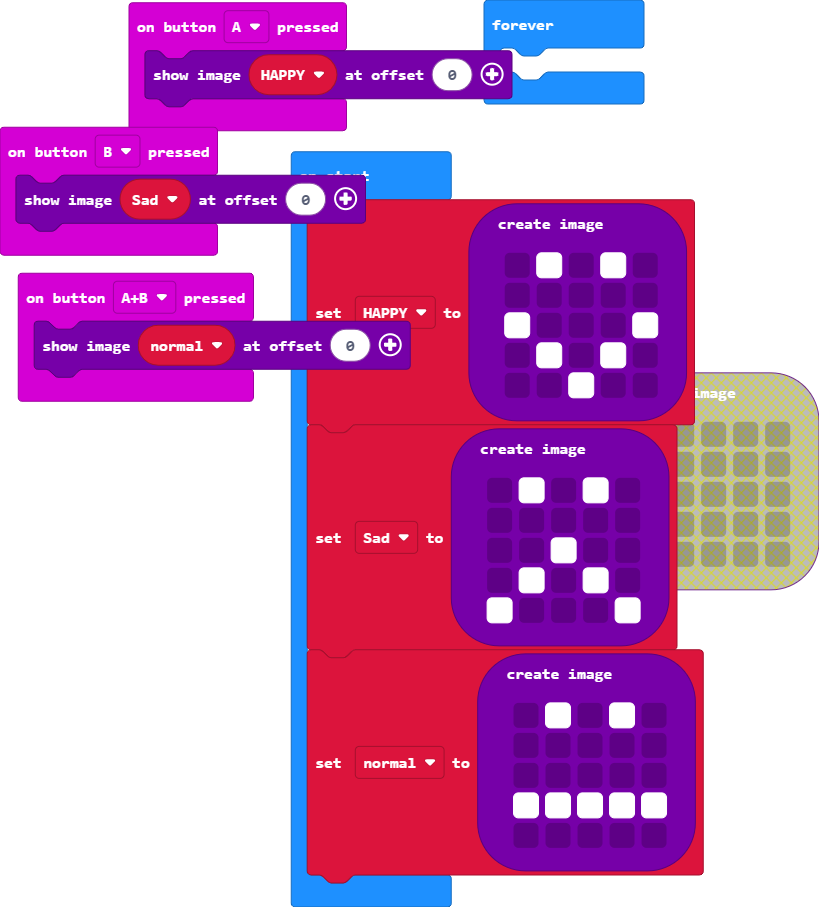
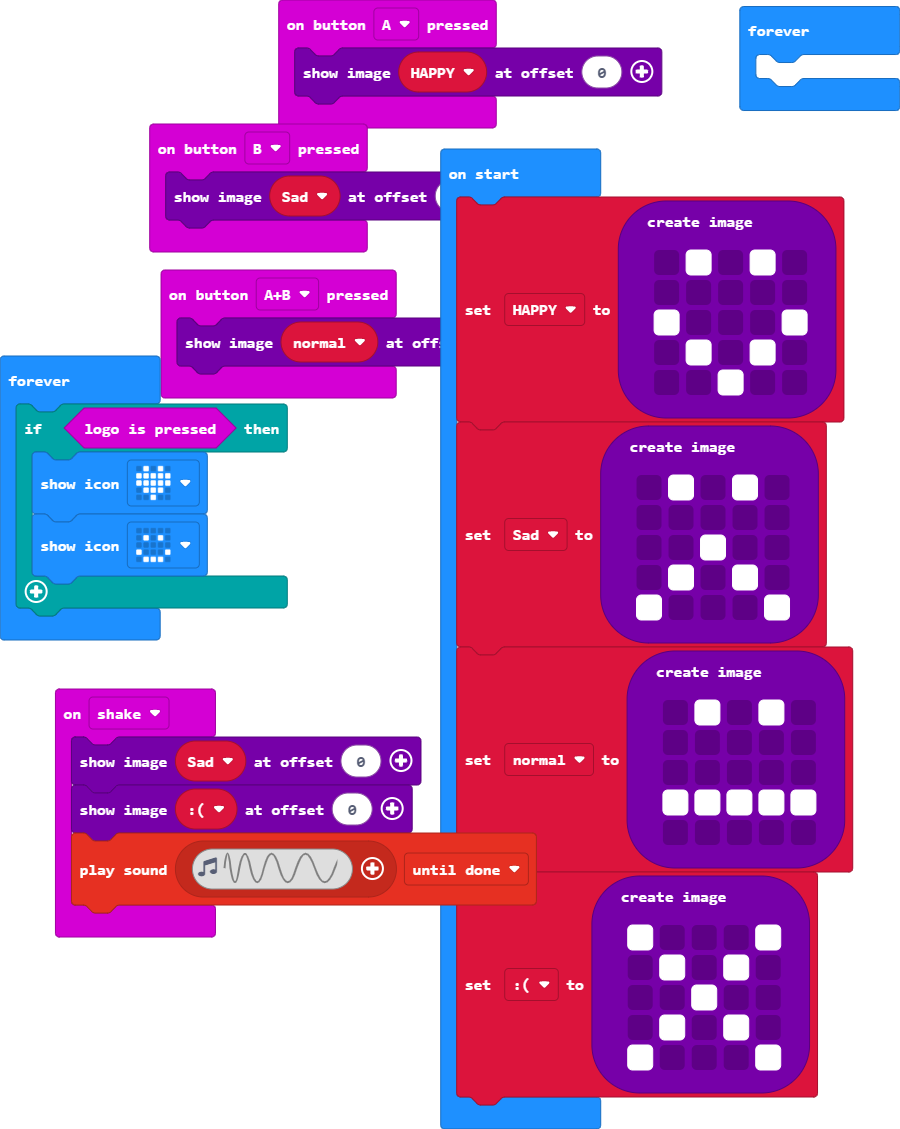
commands

diff --git a/main.ts b/main.ts
@@ -7,6 +7,12 @@ input.onButtonPressed(Button.AB, function () {
 input.onButtonPressed(Button.B, function () {
     Sad.showImage(0)
 })
+input.onGesture(Gesture.Shake, function () {
+    Sad.showImage(0)
+    _.showImage(0)
+    music.playSoundEffect(music.createSoundEffect(WaveShape.Sine, 4764, 1695, 255, 255, 465, SoundExpressionEffect.None, InterpolationCurve.Logarithmic), SoundExpressionPlayMode.UntilDone)
+})
+let _: Image = null
 let normal: Image = null
 let Sad: Image = null
 let HAPPY: Image = null
@@ -31,6 +37,19 @@ normal = images.createImage(`
     # # # # #
     . . . . .
     `)
+_ = images.createImage(`
+    # . . . #
+    . # . # .
+    . . # . .
+    . # . # .
+    # . . . #
+    `)
 basic.forever(function () {
 	
+})
+basic.forever(function () {
+    if (input.logoIsPressed()) {
+        basic.showIcon(IconNames.Heart)
+        basic.showIcon(IconNames.Happy)
+    }
 })
